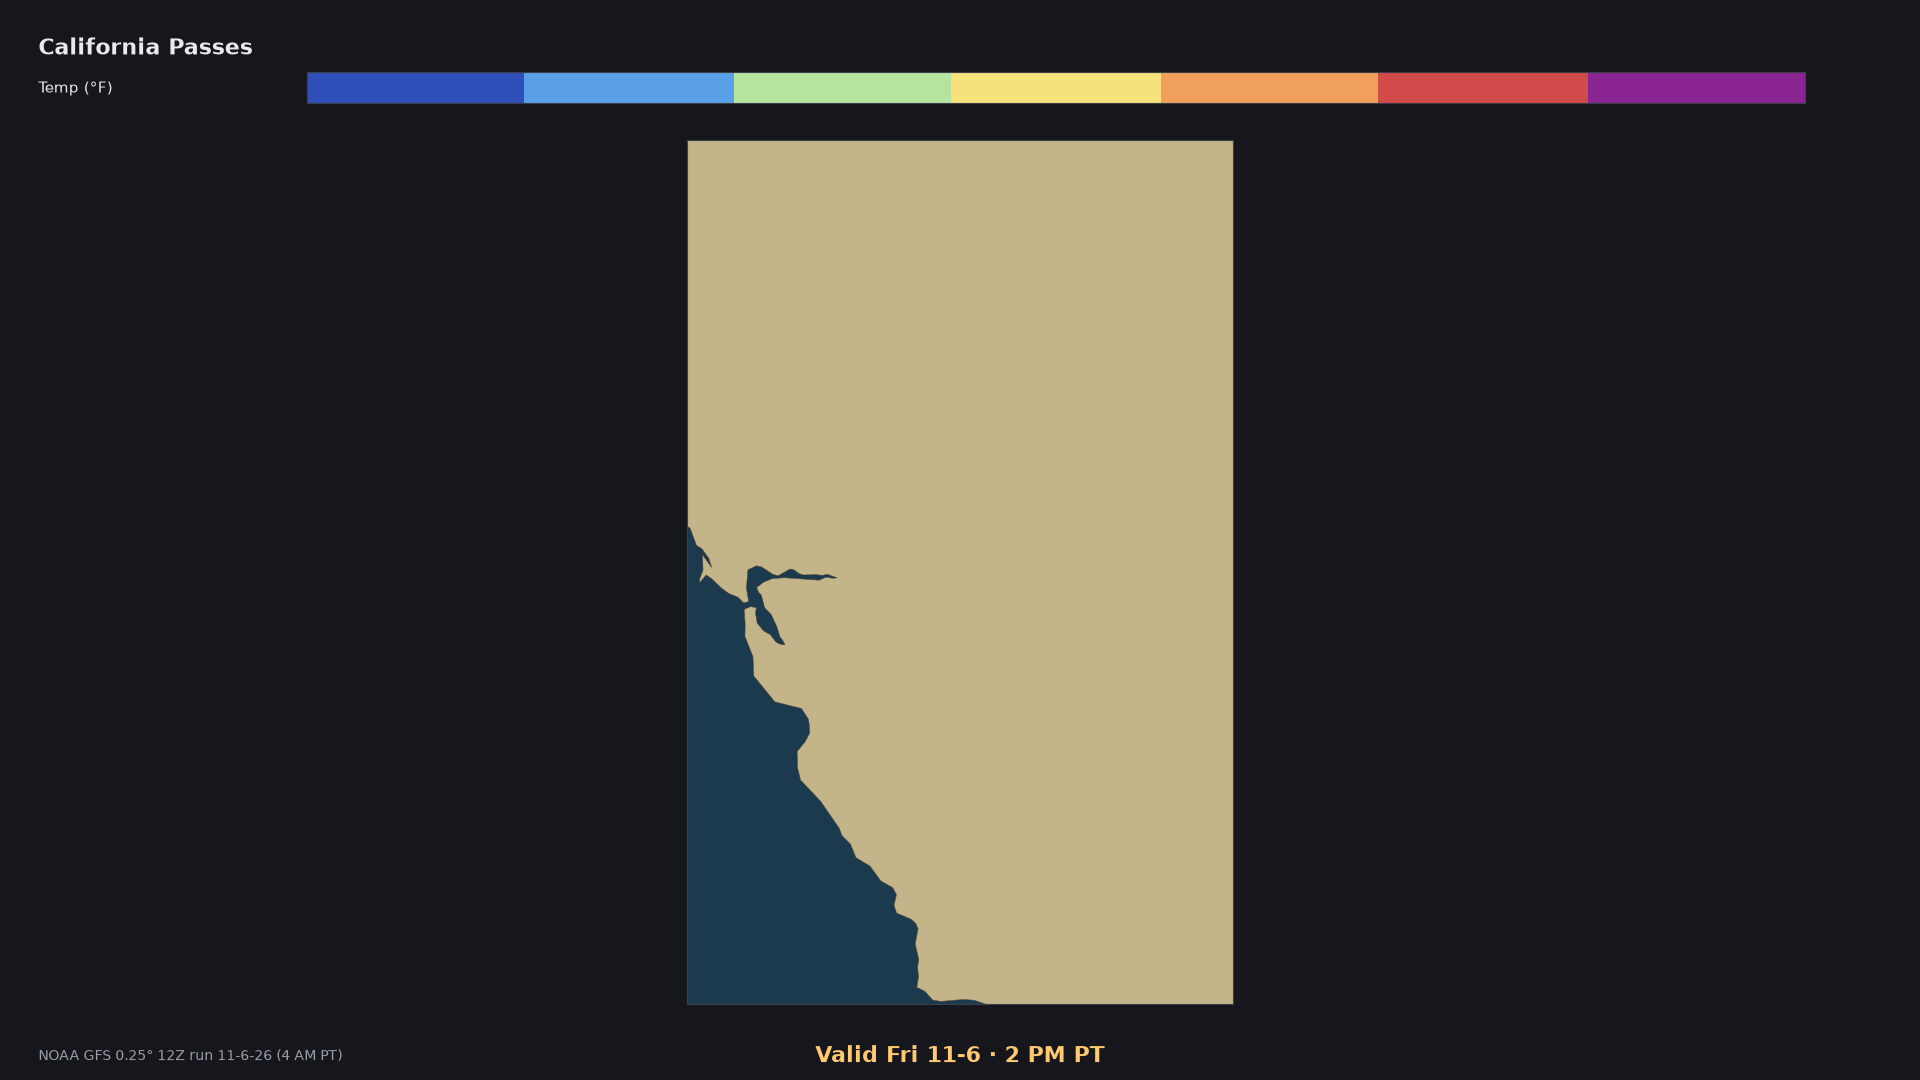
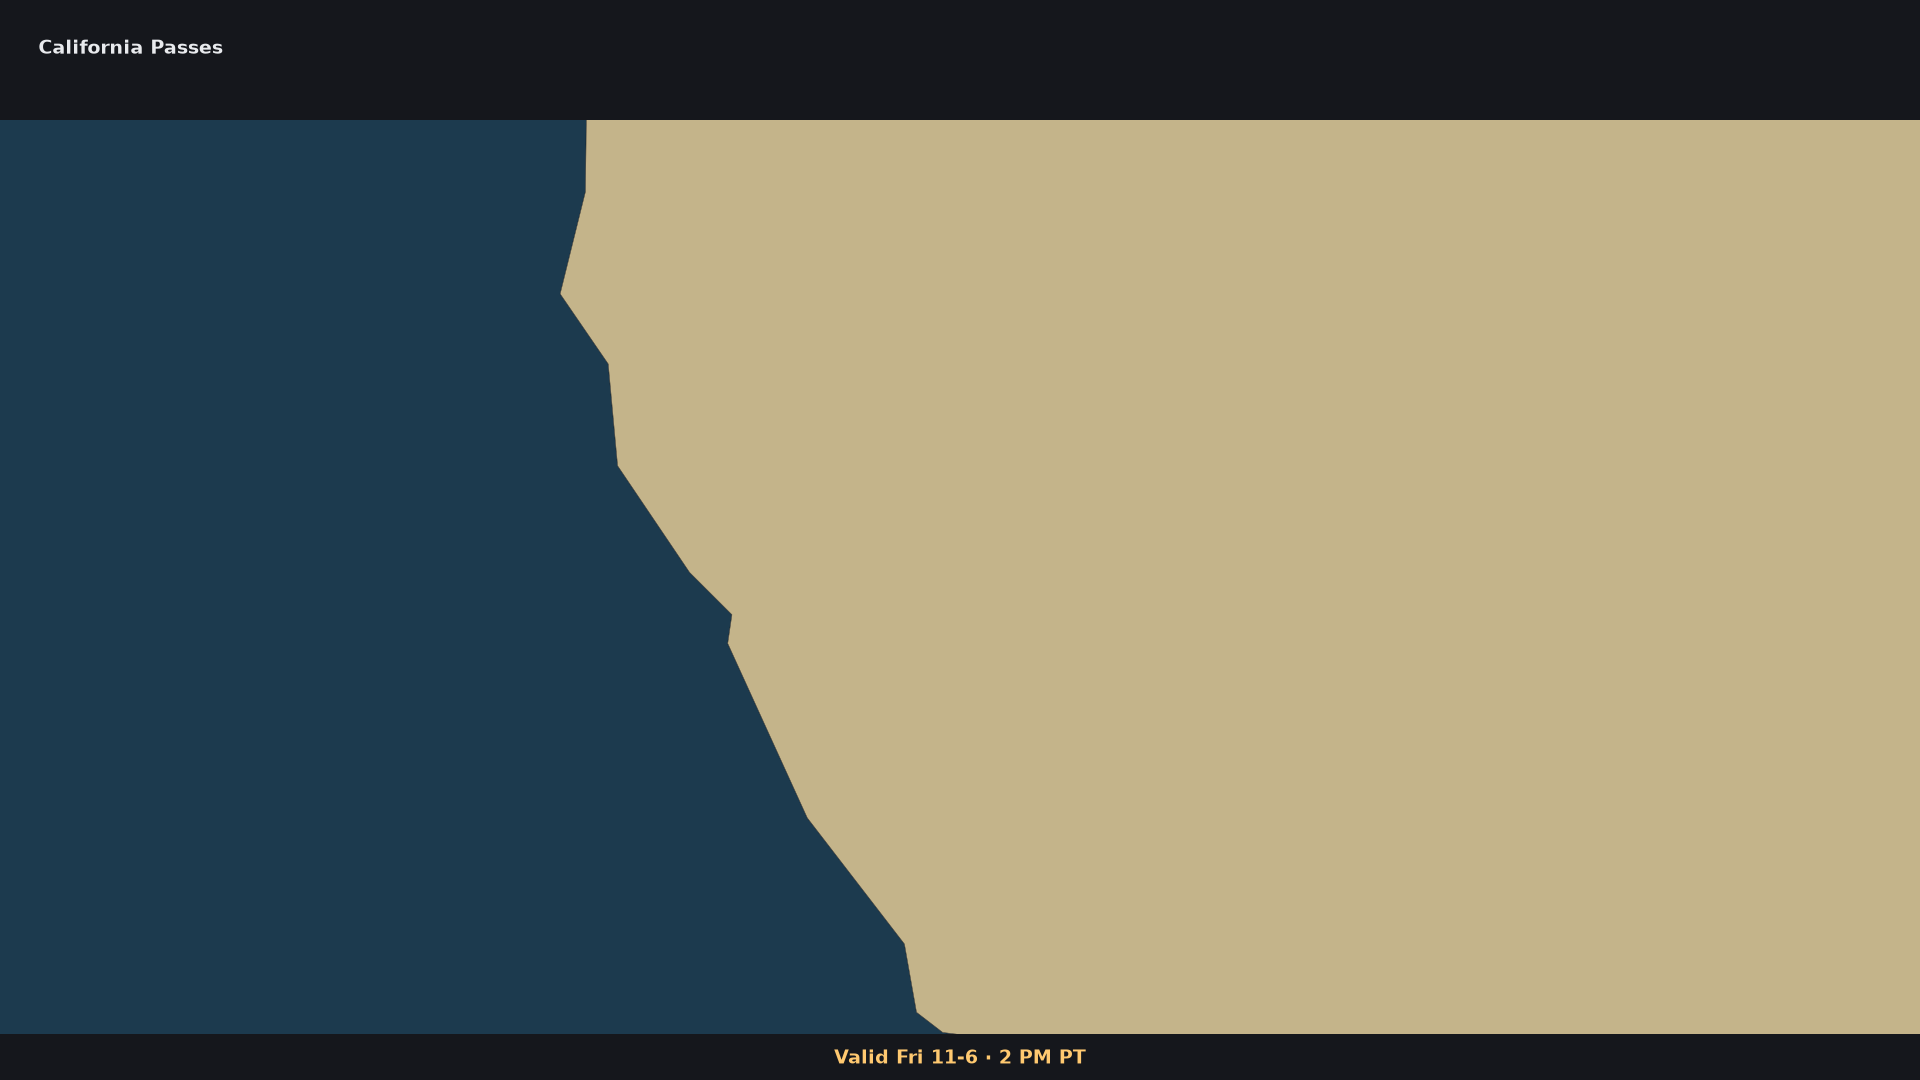
Register the basemap to the data and fill the 1920x1080 frame.
The map axes now fill the slot under the color bar, and each view's projected
window is expanded from its center so Cartopy no longer insets a second
rectangle. Coastlines, the lookup table, towns and buoys share that rectangle.
Also fix the EPS member theme path, list ECMWF 9 km without a manifest entry,
and let a 24 hour product draw before the run is 24 hours old.

diff --git a/tools/fast/site/viewer.js b/tools/fast/site/viewer.js
@@ -225,6 +225,9 @@ async function boot() {
                                    fetch(DATA + "static/wave_views.json", { cache: "no-cache" }).then(r => r.ok ? r.json() : null, () => null),
                                    document.fonts.load("800 20px WXTheme"), document.fonts.load("500 12px WXTheme")]);
   S.man = waveViews(viewFixes(mergeRunsX(man), vf), wv);
+  // ECMWF 9 km is listed even when static has never written models.ifs9 (publisher paused).
+  if (!S.man.models.ifs9) S.man.models.ifs9 = { name: "ECMWF IFS", site: "ECMWF 9 km", res: "9 km (0.1\u00b0)", grid: "ll", note: "publishing paused", views: {}, products: {} };
+  S.man.runs = S.man.runs || {}; if (!S.man.runs.ifs9) S.man.runs.ifs9 = [];
   // runs: "model/cycle", newest first per model; models in a fixed order
   // ifs9 stays in the Runs menu when its publisher is paused and no cycle is in R2 yet.
   const LISTED_WITHOUT_RUNS = new Set(["ifs9"]);
@@ -633,7 +636,7 @@ async function productFields(run, pid, f) {
       for (let k = 0; k < z.length; k++) o[k] = z[k] - C[k]; out.fill = fld === "z500" ? blur(o, g.w, g.h, 1.0) : o;
     } else if (P.window && (P.wmax || P.wsum || P.wmin)) {   // highest value over the steps in the last N hours (incl. this one)
       const fld = P.wfield || P.fields[0], fs = S.runs[run].steps.map(x => x.f).filter(x => x > f - P.window && x <= f && (!P.wstep || (f - x) % P.wstep === 0));
-      if (f - P.window < 0 && !P.sofar) throw new Error(`nodata:${fld}`);
+      // A 24 h product on a run that has not reached 24 h yet still draws the hours that exist (RRFS fzra24).
       if (P.wstep && f % P.wstep) throw new Error(`nodata:${fld}`);   // NBM sums of 6 h amounts: only at 6-hourly valid times
       const arrs = await Promise.all(fs.map(x => getField(run, fld, x).then(r => r.v, () => null))), ok = arrs.filter(Boolean);
       if (!ok.length) throw new Error(`nodata:${fld}`);

diff --git a/tools/fast/site/index.html b/tools/fast/site/index.html
@@ -125,7 +125,7 @@ table.pf td small.el{color:var(--muted);font-weight:500;font-size:11px}table.pf 
 <div id="dock"></div>
 <script src="coastline.js?v=20261106screen"></script>
 <script src="selection.js?v=20261106screen"></script>
-<script src="viewer.js?v=20261106listed"></script>
+<script src="viewer.js?v=20261106reg"></script>
 <footer class="lic"><details><summary><span id="licsrc">Data: &copy; <span class="yr">2026</span> ECMWF (www.ecmwf.int), CC BY 4.0 &middot; </span>Places: GeoNames, CC BY 4.0 &middot; NOAA (public domain) &middot; Natural Earth &middot; <u>Credits</u></summary>
 <p>Based on data and products of the European Centre for Medium-Range Weather Forecasts (ECMWF). Copyright &copy; <span class="yr">2026</span> ECMWF, <a href="https://www.ecmwf.int">www.ecmwf.int</a>. Licensed under CC BY 4.0 (<a href="https://creativecommons.org/licenses/by/4.0/">https://creativecommons.org/licenses/by/4.0/</a>). Maps are modified from the original data. ECMWF does not accept any liability whatsoever for any error or omission in the data, their availability, or for any loss or damage arising from their use.</p>
 <p>Places: GeoNames (<a href="https://www.geonames.org">geonames.org</a>), CC BY 4.0. Precipitation normals: PRISM Group, Oregon State University, <a href="https://prism.oregonstate.edu">https://prism.oregonstate.edu</a> (accessed 30 Oct 2026); NOAA CPC Global Unified Gauge &amp; GPCP v2.3 via NOAA PSL. Climatology: NCEP/NCAR Reanalysis 1, NOAA PSL. NOAA HRRR, RRFS, NBM and GFS data are public domain (NOAA does not endorse this site). Basemap: Natural Earth (public domain); US Census Bureau boundaries (public domain).</p></details></footer>

diff --git a/tools/fast/test_registration.py b/tools/fast/test_registration.py
@@ -1,0 +1,114 @@
+"""Data raster and coastlines share one axes rectangle on every view.
+
+The 1920x1080 layout used to letterbox the basemap inside the frame while the
+data panel stayed a different size. Each view now fills the slot between the
+color bar and the timestamp, and a known point projects to the same pixel the
+encoder's lookup table would use.
+"""
+import json
+import os
+import sys
+import unittest
+
+sys.path.insert(0, os.path.join(os.path.dirname(__file__), "..", "forecast"))
+os.environ.setdefault("MPLBACKEND", "Agg")
+
+import cartopy.crs as ccrs
+import matplotlib
+matplotlib.use("Agg")
+import matplotlib.pyplot as plt
+import numpy as np
+
+import house_style as HS
+
+ROOT = os.path.normpath(os.path.join(os.path.dirname(__file__), "..", ".."))
+REGIONS = os.path.join(ROOT, "regions", "regions.json")
+# A place that must fall inside the view, and on the pixel the map says it does.
+POINTS = {
+    "na": ("Denver", 39.7392, -104.9903),
+    "pac": ("Honolulu", 21.3069, -157.8583),
+    "pnw": ("Seattle", 47.6062, -122.3321),
+    "pnwt": ("Seattle", 47.6062, -122.3321),
+    "pnwhr": ("Seattle", 47.6062, -122.3321),
+    "passes": ("Snoqualmie", 47.4245, -121.4136),
+    "ca": ("Sacramento", 38.5816, -121.4944),
+    "socal": ("Los Angeles", 34.0522, -118.2437),
+    "cenca": ("Fresno", 36.7378, -119.7871),
+    "norca": ("Redding", 40.5865, -122.3917),
+    "capasses": ("Donner", 39.33987, -120.34396),
+    "hiw": ("Honolulu", 21.3069, -157.8583),
+    "bay": ("San Francisco", 37.7749, -122.4194),
+    "orco": ("Newport", 44.6368, -124.0535),
+    "bigi": ("Hilo", 19.7297, -155.09),
+}
+
+
+def proj_of(p):
+    if p[0] == "merc":
+        return ccrs.Mercator(central_longitude=p[1])
+    return ccrs.LambertConformal(central_longitude=p[1], central_latitude=p[2], standard_parallels=tuple(p[3]))
+
+
+def open_view(v):
+    fig = plt.figure(figsize=HS.SCREEN_IN, dpi=100)
+    lay = HS.screen_layout(fig)
+    ax = fig.add_axes(lay["axes"], projection=proj_of(v["proj"]))
+    if "extent" in v:
+        ax.set_extent(v["extent"], crs=ax.projection)
+    else:
+        ax.set_extent(v["ll"], crs=ccrs.PlateCarree())
+    HS.fill_projected_limits(ax, lay["axes"])
+    ax.apply_aspect()
+    fig.canvas.draw()
+    HS.fill_projected_limits(ax, lay["axes"])
+    fig.canvas.draw()
+    return fig, ax, lay
+
+
+class Registration(unittest.TestCase):
+    @classmethod
+    def setUpClass(cls):
+        with open(REGIONS, encoding="utf-8") as f:
+            cls.views = json.load(f)["views"]
+
+    def test_every_view_fills_the_map_slot(self):
+        for vid, v in self.views.items():
+            fig, ax, lay = open_view(v)
+            pos = ax.get_position().bounds
+            want = lay["axes"]
+            for i in range(4):
+                self.assertAlmostEqual(float(pos[i]), float(want[i]), places=2, msg=vid)
+            plt.close(fig)
+
+    def test_known_point_matches_the_lookup_pixel(self):
+        for vid, (name, lat, lon) in POINTS.items():
+            fig, ax, lay = open_view(self.views[vid])
+            fig.set_dpi(100)
+            fig.canvas.draw()
+            W, H = fig.get_size_inches() * 100
+            b = ax.get_position()
+            px, py, pw, ph = b.x0 * W, (1 - b.y1) * H, b.width * W, b.height * H
+            # encoder LUT: panel pixel -> projected x,y -> lon/lat
+            x0, x1 = ax.get_xlim()
+            y0, y1 = ax.get_ylim()
+            # the town in display pixels, the same way cartopy draws the coastline
+            disp = ax.transData.transform(ax.projection.transform_point(lon, lat, ccrs.PlateCarree()))
+            # and via the LUT formula (projected x from the lon/lat, then into the panel)
+            xx, yy = ax.projection.transform_point(lon, lat, ccrs.PlateCarree())
+            lut_x = px + (xx - x0) / (x1 - x0) * pw
+            lut_y = py + (y1 - yy) / (y1 - y0) * ph
+            # display y is from the bottom; the LUT y above is from the top of the figure
+            disp_x, disp_y_bottom = disp
+            lut_y_bottom = H - lut_y
+            self.assertLess(abs(disp_x - lut_x), 1.5, f"{vid} {name} x")
+            self.assertLess(abs(disp_y_bottom - lut_y_bottom), 1.5, f"{vid} {name} y")
+            # inside the map, not in the color-bar or timestamp strip
+            self.assertGreater(disp_x, px - 1, vid)
+            self.assertLess(disp_x, px + pw + 1, vid)
+            self.assertGreater(disp_y_bottom, H - (py + ph) - 1, vid)
+            self.assertLess(disp_y_bottom, H - py + 1, vid)
+            plt.close(fig)
+
+
+if __name__ == "__main__":
+    unittest.main()

diff --git a/tools/forecast/house_style.py b/tools/forecast/house_style.py
@@ -72,11 +72,11 @@ def header(fig, title, valid, sub, badge_top, badge_bottom, top=0.985, h=0.095):
 
 
 def frame(ax):
-    """Thin light frame around the map panel."""
+    """No inset rectangle. The map meets the color bar and the timestamp."""
     for s in ax.spines.values():
-        s.set_edgecolor(PANEL_EDGE); s.set_linewidth(1.1)
+        s.set_visible(False)
     if hasattr(ax, "outline_patch"):
-        ax.outline_patch.set_edgecolor(PANEL_EDGE)
+        ax.outline_patch.set_visible(False)
 
 
 # State / province line width (Benjamin 10-25-26 10:28 PM: "we gotta make the state lines thicker"): 0.5 -> 0.75 pt (+50%).
@@ -128,27 +128,40 @@ def geo_aspect(ll):
     mid = (s + n) / 2.0
     return abs(e - w) * math.cos(math.radians(mid)) / max(abs(n - s), 1e-6)
 
-def screen_layout(fig, aspect):
-    """16:9 chrome. key_y is the bottom of the horizontal color bar. axes is [left, bottom, width, height]
-    in figure fraction, sized to `aspect` (width/height) and centered between the key and the timestamp."""
+def screen_layout(fig, aspect=None):
+    """16:9 chrome. The map axes fill everything between the color bar and the timestamp.
+    `aspect` is ignored: the geographic window is expanded instead of letterboxing."""
     W, H = fig.get_size_inches()
-    # product title row, then the color bar, then the map, then the timestamp
     title_in, gap_in, bar_in, tick_in, stamp_in = 0.52, 0.04, 0.36, 0.28, 0.46
     key_y = 1.0 - (title_in + gap_in + bar_in) / H
     map_top = key_y - tick_in / H
     map_bot = stamp_in / H
-    slot_w, slot_h = 0.96, map_top - map_bot
-    slot_aspect = (slot_w * W) / (slot_h * H)
-    if aspect >= slot_aspect:
-        mw = slot_w
-        mh = (mw * W) / max(aspect, 1e-6) / H
-    else:
-        mh = slot_h
-        mw = (mh * H) * aspect / W
-    left = 0.02 + (slot_w - mw) / 2.0
-    bottom = map_bot + (slot_h - mh) / 2.0
-    return {"key_y": key_y, "key_h": bar_in / H, "axes": [left, bottom, mw, mh],
+    axes = [0.0, map_bot, 1.0, map_top - map_bot]
+    return {"key_y": key_y, "key_h": bar_in / H, "axes": axes,
             "stamp_y": 0.018, "map_top": map_top, "map_bot": map_bot}
+
+def fill_projected_limits(ax, slot=None):
+    """Keep the view's center and expand the projected window until it matches `slot`.
+    Cartopy's equal aspect would otherwise shrink the axes and leave an inner rectangle
+    that the data raster does not share. `slot` is the axes rectangle to restore."""
+    fig = ax.figure
+    if slot is None:
+        p = ax.get_position()
+        slot = (p.x0, p.y0, p.width, p.height)
+    fig.canvas.draw()
+    x0, x1 = ax.get_xlim()
+    y0, y1 = ax.get_ylim()
+    cx, cy = (x0 + x1) / 2.0, (y0 + y1) / 2.0
+    dx, dy = abs(x1 - x0), abs(y1 - y0)
+    W, H = fig.get_size_inches()
+    A = (slot[2] * W) / max(slot[3] * H, 1e-9)
+    if dy > 0 and dx / dy < A:
+        dx = A * dy
+    elif dx > 0:
+        dy = dx / A
+    ax.set_xlim(cx - dx / 2.0, cx + dx / 2.0)
+    ax.set_ylim(cy - dy / 2.0, cy + dy / 2.0)
+    ax.set_position(slot)
 
 def layout(fig, key=True):
     """Figure fractions (key_y, map_top). Color key at the top of the 16:9 frame, map beneath it."""

diff --git a/tools/fast/test_screen_layout.py b/tools/fast/test_screen_layout.py
@@ -23,22 +23,18 @@ class ScreenLayout(unittest.TestCase):
         self.assertAlmostEqual(w / h, 16 / 9, places=5)
         self.assertEqual((int(w * 100), int(h * 100)), (1920, 1080))
 
-    def test_key_is_above_the_map_and_stamp_is_below(self):
+    def test_key_is_above_the_map_and_the_map_fills_the_slot(self):
         class Fig:
             def get_size_inches(self):
                 return HS.SCREEN_IN
-        for aspect in (HS.geo_aspect((-132.5, -121.3, 41.95, 46.35)),
-                       HS.geo_aspect((-123.0, -117.4, 34.4, 41.75)),
-                       HS.geo_aspect((-168.0, -148.0, 16.08, 24.42))):
-            lay = HS.screen_layout(Fig(), aspect)
-            left, bottom, mw, mh = lay["axes"]
-            map_top = bottom + mh
-            self.assertGreater(lay["key_y"], map_top)
-            self.assertGreater(bottom, lay["stamp_y"])
-            got = (mw * HS.SCREEN_IN[0]) / (mh * HS.SCREEN_IN[1])
-            self.assertAlmostEqual(got, aspect, places=2)
-            self.assertGreaterEqual(left, 0.01)
-            self.assertLessEqual(left + mw, 0.99)
+        lay = HS.screen_layout(Fig(), 1.2)
+        left, bottom, mw, mh = lay["axes"]
+        self.assertGreater(lay["key_y"], bottom + mh)
+        self.assertGreater(bottom, lay["stamp_y"])
+        self.assertAlmostEqual(left, 0.0, places=3)
+        self.assertAlmostEqual(mw, 1.0, places=3)
+        # a tall view and a wide view get the same full-bleed axes
+        self.assertEqual(HS.screen_layout(Fig(), 0.4)["axes"], lay["axes"])
 
     def test_valid_line_is_pacific_wall_time(self):
         # 6 Nov 2026 22:00 UTC is 2 PM PST. 6 Jul 2026 21:00 UTC is 2 PM PDT.

diff --git a/tools/fast/fast_encode.py b/tools/fast/fast_encode.py
@@ -956,6 +956,8 @@ def static(m, out, views_only=None, x2_only=False):
     for vid in vids:
         V = TM.VIEWS[vid]
         fig, ax, ky = TM.frame(vid); fig.set_dpi(DPI); ax.apply_aspect(); fig.canvas.draw()
+        HS.fill_projected_limits(ax, fig._screen["axes"])   # apply_aspect must not inset the axes
+        fig.canvas.draw()
         W, H = fig.get_size_inches() * DPI; b = ax.get_position()
         px, py, pw, ph = b.x0 * W, (1 - b.y1) * H, b.width * W, b.height * H
         x0, x1, y0, y1 = ax.get_extent(V["proj"])
@@ -1491,7 +1493,7 @@ def static(m, out, views_only=None, x2_only=False):
         if "waves" in prods: prods["waves"]["extra"] = "arrows = primary wave direction  \u00b7  up to {hi} ft in view"
     if m == "oisst": prods = {k: v for k, v in prods.items() if k == "ssta"}
     if m == "epsm":   # 11-04: four member products; CVD-safe keys from theme/epsm_cvd_scales.json (deutan/protan dE>=3)
-        sc = json.load(open(os.path.join(os.path.dirname(HERE), "..", "..", "theme", "epsm_cvd_scales.json")))
+        sc = json.load(open(os.path.join(HERE, "..", "..", "theme", "epsm_cvd_scales.json")))
         base = {k: dict(ALLP[k]) for k in ("slp", "gust10", "z500anom", "snow") if k in ALLP}
         base["slp"]["fields"] = ["mslp"]; base["slp"]["title"] = "Sea-Level Pressure (member)"; base["slp"]["extra"] = "EPS single member  \u00b7  isobars every 4 mb"
         base["gust10"]["fields"] = ["gust"]; base["gust10"]["fill"] = "gust"; base["gust10"]["title"] = "10 m Wind Gusts (member)"

diff --git a/tools/forecast/temp_maps.py b/tools/forecast/temp_maps.py
@@ -563,14 +563,12 @@ def pass_labels(ax, field, fmt, taken, r, pt, axbb, pass_corr=None):
 def frame(vid):
     V = VIEWS[vid]
     fig = plt.figure(figsize=HS.SCREEN_IN, dpi=100); fig.patch.set_facecolor(HS.BG)
-    if "extent" in V:
-        x0, x1, y0, y1 = V["extent"]; aspect = abs(x1 - x0) / max(abs(y1 - y0), 1e-6)
-    else:
-        aspect = HS.geo_aspect(V["ll"])
-    lay = HS.screen_layout(fig, aspect)
+    lay = HS.screen_layout(fig)
     ax = fig.add_axes(lay["axes"], projection=V["proj"])
     if "extent" in V: ax.set_extent(V["extent"], crs=V["proj"])
     else: ax.set_extent(V["ll"], crs=ccrs.PlateCarree())
+    HS.fill_projected_limits(ax, lay["axes"])
+    HS.frame(ax)
     fig._screen = lay
     return fig, ax, lay["key_y"]
 

diff --git a/tools/forecast/regions.py b/tools/forecast/regions.py
@@ -14,7 +14,7 @@ def apply(TM, ccrs, FE=None):
     import house_style as HS
     for k in R["removed_from_benjamin"]: TM.VIEWS.pop(k.split()[0], None)
     for vid, v in R["views"].items():
-        if v["from"].startswith("Benjamin") and vid in TM.VIEWS: continue   # keep his exact frame (incl. pnwhr shift)
+        # regions.json is the window for every view, including the ones that started in temp_maps.
         d = dict(label=v["label"], size=tuple(v["size"]), proj=_proj(ccrs, v["proj"]), box=tuple(v["box"]), fast_shift=True)
         if "ll" in v: d["ll"] = tuple(v["ll"])
         if "extent" in v: d["extent"] = tuple(v["extent"])
